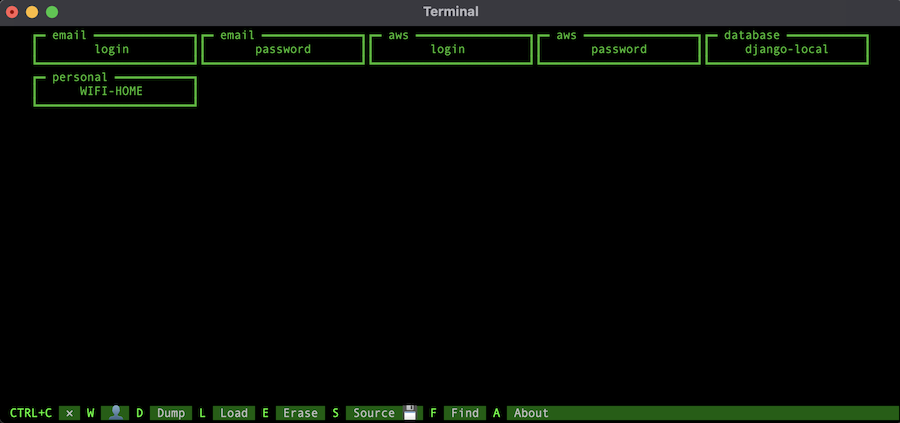
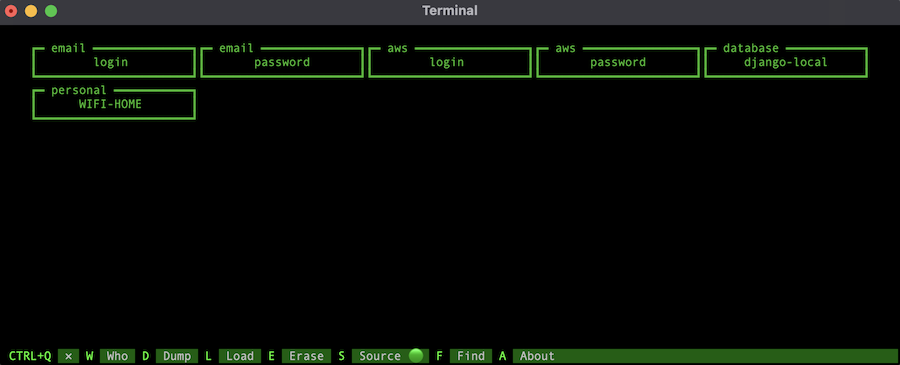
v1.15(default source)

Changed region(s): [[0.0, 0.0, 1.0, 0.3315], [0.0, 0.9342, 1.0, 0.9945]]

diff --git a/tui.py b/tui.py
@@ -113,6 +113,7 @@ class ViewApp(App):
         try:
             self.input_source.content = ''
             self.input_source.hide()
+            self.default_button.hide()
 
             self.vlt.set_source(source)
             self.vlt.get_user(login, password)
@@ -164,12 +165,21 @@ class ViewApp(App):
                 )
         self._set_source_type()
 
+    def _default_source(self):
+        self.input_source.content = self.vlt.get_default_source()
+        self.input_button.hide()
+        self._source()
+
     def action_source(self):
+        self.default_button.action = self._default_source
         self.input_button.action = self._source
 
         self.input_source.visible = not self.input_source.visible
+        self.default_button.visible = not self.default_button.visible
         self.input_button.visible = not self.input_button.visible
-        self._hide_pop_up_view(self.input_button, self.input_source)
+        self._hide_pop_up_view(
+            self.input_button, self.default_button, self.input_source
+        )
         self.cells.visible = True
 
     def action_find_database(self):
@@ -293,6 +303,9 @@ class ViewApp(App):
 
         self.find_db = CopyButton(title='Find', label='')
 
+        self.default_button = ActionButton(
+            title='Default', label=self.vlt.get_default_source(),
+        )
         self.input_source = InputText(title='Source')
         self.input_button = ActionButton(
             title='Connect', label='OK'
@@ -313,7 +326,10 @@ class ViewApp(App):
         await self.view.dock(self.find_db, z=2)
         await self.view.dock(self.about_vault, z=2)
         await self.view.dock(
-            self.input_source, self.input_button, z=2
+            self.default_button,
+            self.input_source,
+            self.input_button,
+            z=2
         )
         await self.view.dock(self.cells, z=1)
 
@@ -323,6 +339,7 @@ class ViewApp(App):
         self.pop_up_views = [
             self.whoami,
             self.dump_json,
+            self.default_button,
             self.input_source,
             self.input_button,
             self.load_json,

diff --git a/vault.py b/vault.py
@@ -14,6 +14,7 @@ VAULT
 # shiv -c vault -o vault --preamble preamble.py .
 
 # use ctrl+q instead of ctrl+c in TUI
+# add default sourceself.default_button.action = self._default_source
 
 import argparse
 import json
@@ -65,11 +66,14 @@ class Vault:
     def is_local_source(self):
         return not self.vault_db.startswith('http')
 
+    def get_default_source(self):
+        return f'{self.local_dir}/{VAULT_DB}'
+
     def set_source(self, source=None):
         if source is not None:
             self.vault_db = source
         else:
-            self.vault_db = f'{self.local_dir}/{VAULT_DB}'
+            self.vault_db = self.get_default_source()
 
     def set_default_database(self):
         if not os.path.isdir(self.local_dir):
